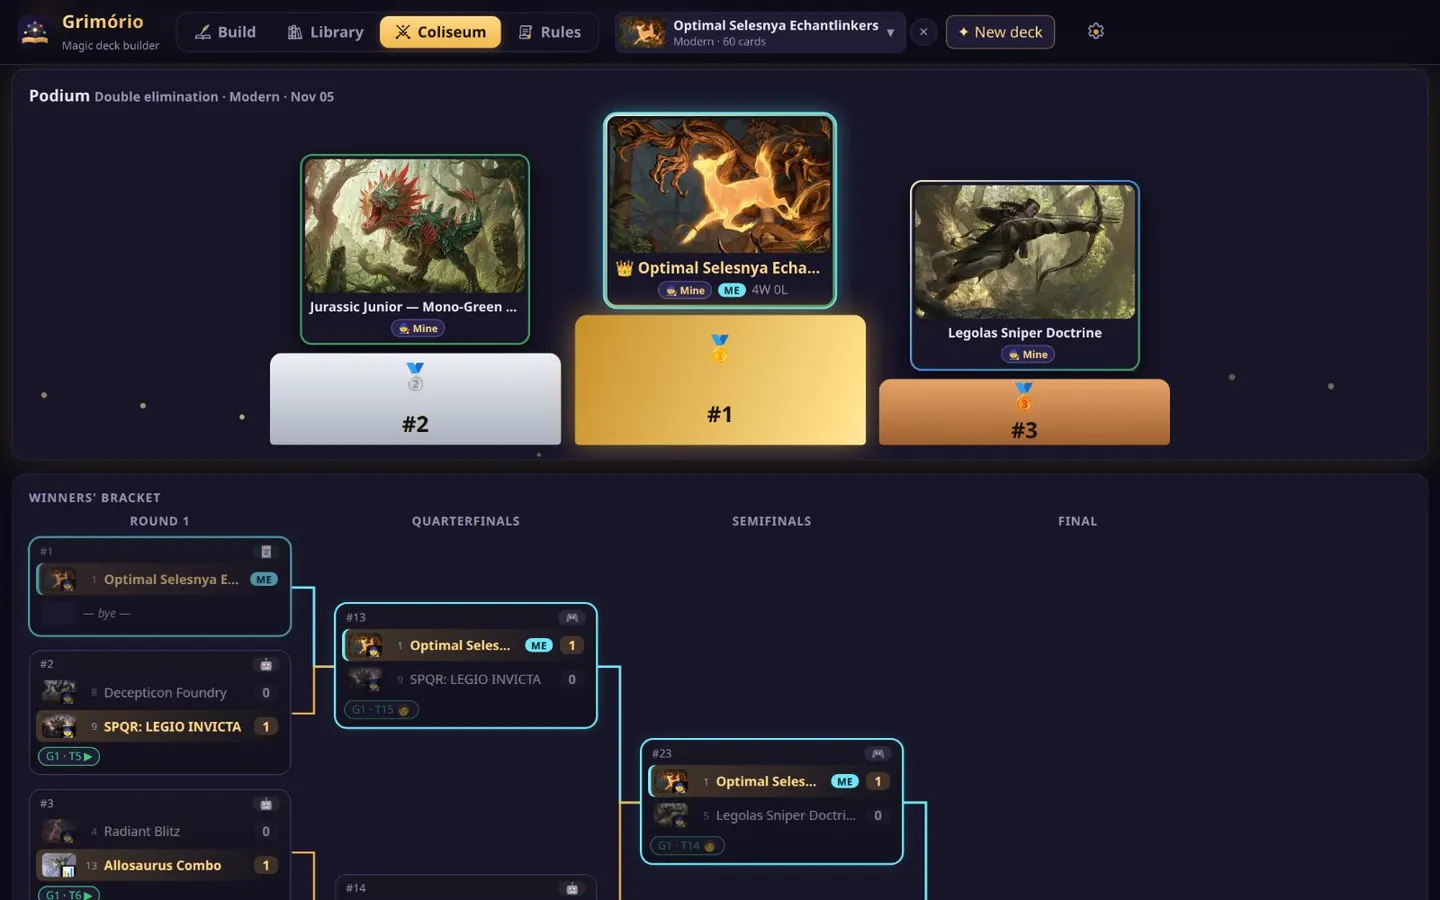
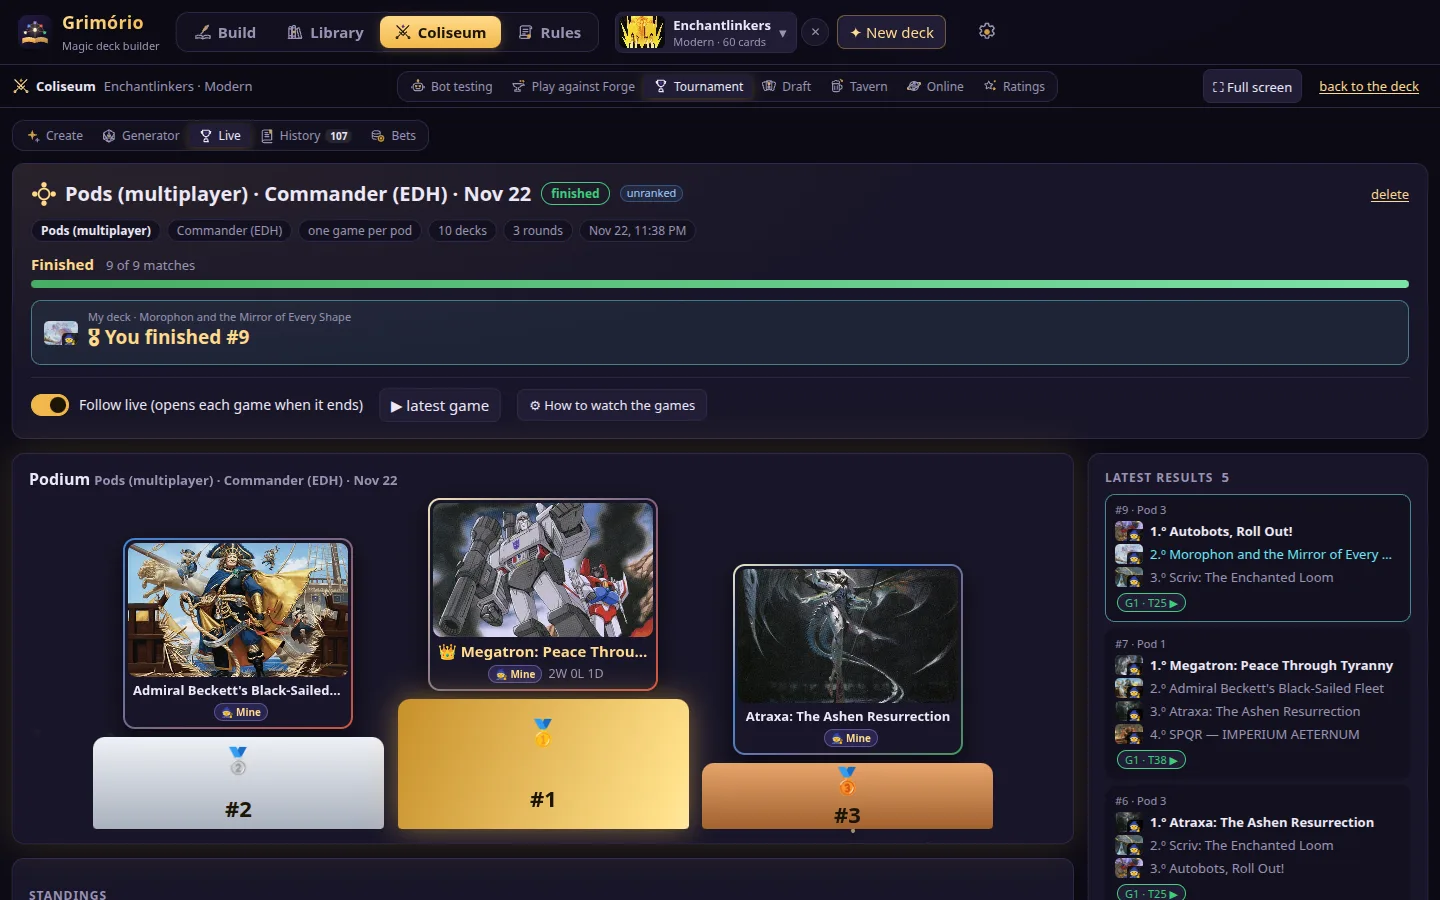
SEO: página estática por projeto (/grimorio/ e restantes) com título, descrição, Open Graph e JSON-LD; sitemap gerado; capturas novas do Grimório (1.13.107)

diff --git a/src/data.js b/src/data.js
@@ -16,9 +16,15 @@ export const PROJECTS = [
     icon: '/icons/grimorio.svg',
     stack: ['React', 'Python', 'SQLite', 'Three.js', 'Forge'],
     licence: { en: 'GPL-3.0, open source', pt: 'GPL-3.0, código aberto' },
-    status: { en: 'Released · Windows & Linux · self-hosted', pt: 'Publicado · Windows e Linux · self-hosted' },
+    status: { en: 'Released · Windows, Linux & Android · self-hosted', pt: 'Publicado · Windows, Linux e Android · self-hosted' },
     type: { en: 'Web app · React front end, Python back end', pt: 'App web · React no ecrã, Python por trás' },
-    platforms: { en: 'Windows · Linux', pt: 'Windows · Linux' },
+    platforms: { en: 'Windows · Linux · Android', pt: 'Windows · Linux · Android' },
+    seo: {
+      title: 'Grimório · Free open-source MTG deck builder with Forge AI testing · DL Forge',
+      description: 'Grimório is a free, open-source Magic: The Gathering deck builder for Commander/EDH, Modern and every format. Explained card suggestions from EDHREC, real decks and Commander Spellbook combos, then watch your deck play AI games with the Forge rules engine. Windows, Linux and Android.',
+      image: '/shots/grimorio-og.png',
+      keywords: 'MTG deck builder, Magic: The Gathering, Commander, EDH, deck tester, Forge, goldfish, draft simulator, open source',
+    },
     tagline: {
       en: 'Build, test and battle Magic: The Gathering decks.',
       pt: 'Construir, testar e pôr à prova baralhos de Magic: The Gathering.',
@@ -56,12 +62,14 @@ export const PROJECTS = [
       { label: { en: 'Downloads', pt: 'Transferências' }, href: GH + 'grimorio/releases' },
     ],
     shots: [
-      shot('grimorio-universe', 'Universe: the 3D map of every card', 'Universo: o mapa 3D de todas as cartas'),
-      shot('grimorio-build', 'Build: plain-word search, deck list and suggestions', 'Construir: pesquisa em linguagem simples, lista e sugestões'),
-      shot('grimorio-suggestions', 'Suggestions by role, combos and real decks', 'Sugestões por função, combos e baralhos reais'),
+      shot('grimorio-build', 'Build: plain-word search ("pirates that make treasure"), deck list and suggestions', 'Construir: pesquisa em linguagem simples («piratas que fazem tesouros»), lista e sugestões'),
+      shot('grimorio-suggestions', 'Strengthen the deck: explained swaps by role', 'Reforçar o baralho: trocas explicadas por função'),
       shot('grimorio-game', 'Coliseum: Forge plays your deck, with the live stack', 'Coliseu: o Forge joga o teu baralho, com a pilha ao vivo'),
+      shot('grimorio-universe', 'Universe: the 3D map of every card', 'Universo: o mapa 3D de todas as cartas'),
+      shot('grimorio-analysis', 'Analysis: curve, colours, keepable hands and deck trophies', 'Análise: curva, cores, mãos aceitáveis e troféus do baralho'),
       shot('grimorio-forgeplay', "Play against Forge on Grimório's table", 'Jogar contra o Forge na mesa do Grimório'),
-      shot('grimorio-tournament', 'Tournaments: live podium and standings', 'Torneios: pódio e classificação ao vivo'),
+      shot('grimorio-tournament', 'Tournaments: Commander pods with podium and results', 'Torneios: mesas de Commander com pódio e resultados'),
+      shot('grimorio-bracket', 'Double elimination bracket', 'Quadro de dupla eliminação'),
       shot('grimorio-draft', 'Draft and Sealed with Forge bots', 'Draft e Sealed com bots do Forge'),
     ],
   },

diff --git a/src/App.jsx b/src/App.jsx
@@ -7,6 +7,10 @@ const asset = (path) => BASE + path.replace(/^\/+/, '');
 
 const GITHUB = 'https://github.com/hubertdungen';
 const byId = Object.fromEntries(PROJECTS.map((p) => [p.id, p]));
+const fromUrl = () => {
+  const k = decodeURIComponent(location.pathname.replace(/\//g, '') || location.hash.slice(1));
+  return byId[k] ? k : null;
+};
 const nameOf = (p, lang) => (typeof p.name === 'string' ? p.name : p.name[lang]);
 const counts = Object.fromEntries(
   FILTERS.map((f) => [f, f === 'all' ? PROJECTS.length : PROJECTS.filter((p) => p.kinds.includes(f)).length]),
@@ -635,10 +639,7 @@ function CaseModal({ id, onClose, t, lang }) {
 
 export default function App() {
   const [lang, setLangState] = useState(initialLang);
-  const [openId, setOpenId] = useState(() => {
-    const h = decodeURIComponent(location.hash.slice(1));
-    return byId[h] ? h : null;
-  });
+  const [openId, setOpenId] = useState(fromUrl);
   const t = UI[lang];
 
   const setLang = (l) => {
@@ -648,27 +649,26 @@ export default function App() {
 
   useEffect(() => {
     document.documentElement.lang = lang === 'pt' ? 'pt-PT' : 'en';
-    document.title = lang === 'pt'
+    document.title = openId ? (lang === 'en' && byId[openId].seo?.title) || `${nameOf(byId[openId], lang)} · DL Forge` : lang === 'pt'
       ? 'DL Forge · Software, jogos e mods da DungenLabs'
       : 'DL Forge · Software, games and mods by DungenLabs';
-  }, [lang]);
+  }, [lang, openId]);
 
-  // Deep links: #grimorio opens that case file; back button closes it.
+  // Deep links: /grimorio/ (static page from scripts/prerender.mjs) or the old #grimorio open that case file;
+  // the back button closes it.
   useEffect(() => {
-    const on = () => {
-      const h = decodeURIComponent(location.hash.slice(1));
-      setOpenId(byId[h] ? h : null);
-    };
-    window.addEventListener('hashchange', on);
-    return () => window.removeEventListener('hashchange', on);
+    const on = () => setOpenId(fromUrl());
+    addEventListener('popstate', on);
+    addEventListener('hashchange', on);
+    return () => { removeEventListener('popstate', on); removeEventListener('hashchange', on); };
   }, []);
 
   const openProject = (id) => {
-    history.pushState(null, '', `#${id}`);
+    history.pushState(null, '', `/${id}/`);
     setOpenId(id);
   };
   const closeProject = () => {
-    if (byId[decodeURIComponent(location.hash.slice(1))]) history.replaceState(null, '', location.pathname + location.search);
+    if (fromUrl()) history.replaceState(null, '', '/' + location.search);
     setOpenId(null);
   };
 
